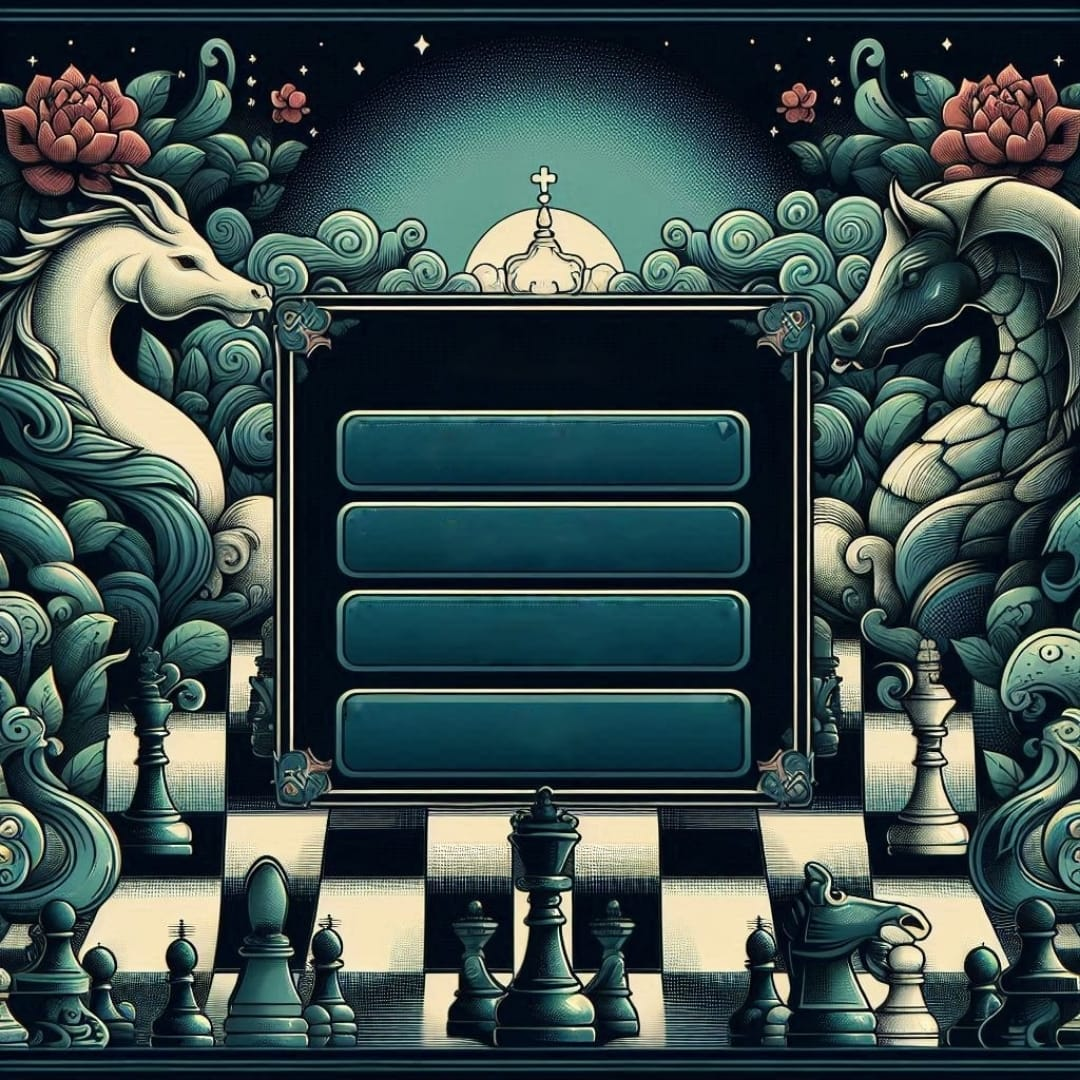
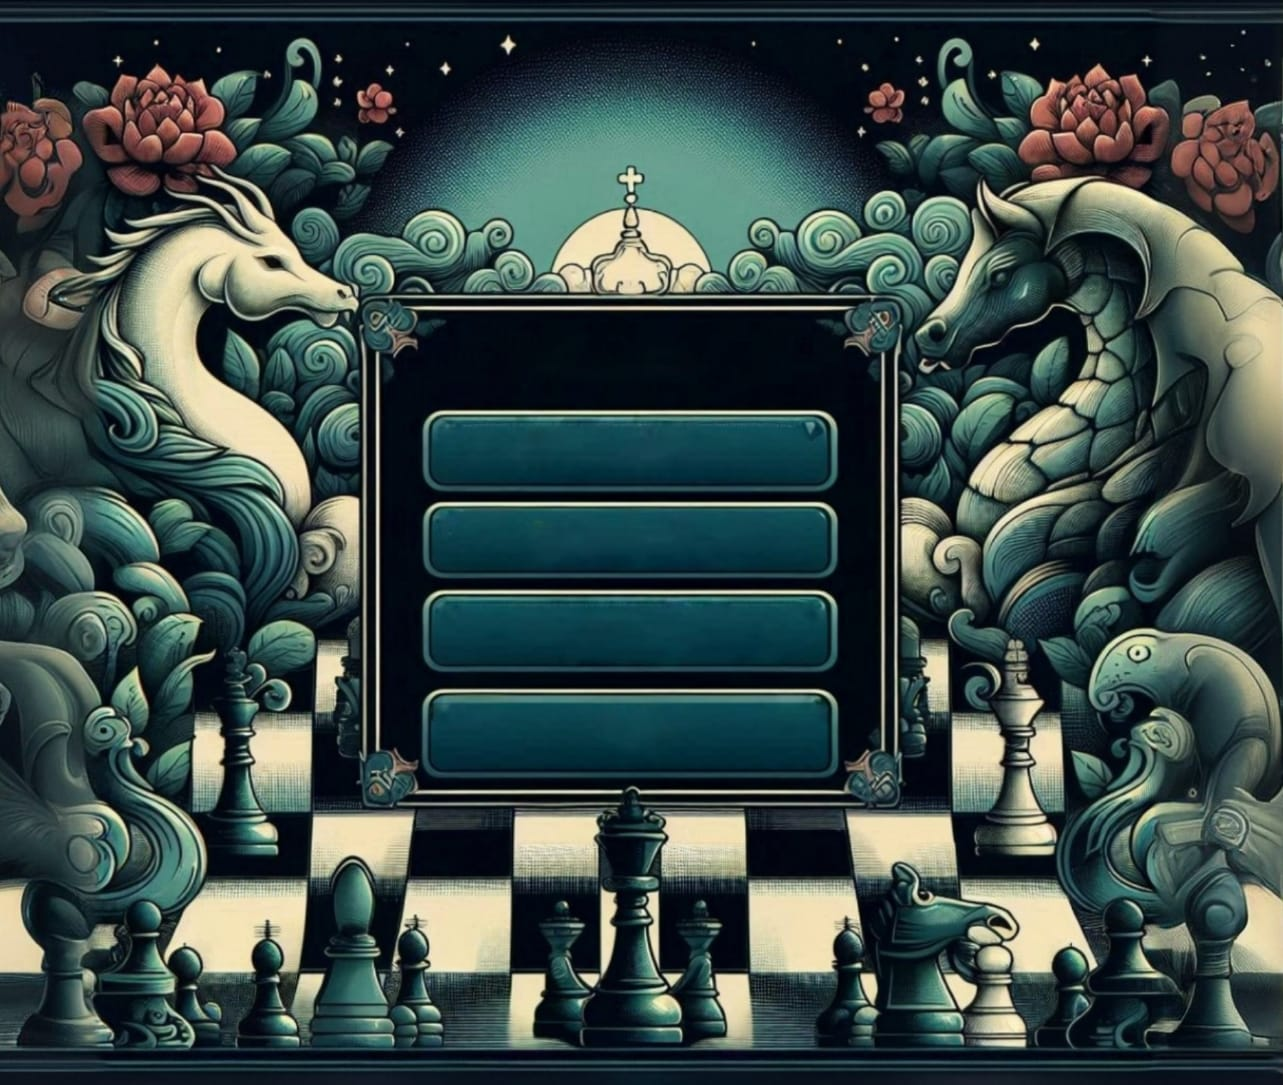
Ajustes en las vistas y controladoes

diff --git a/TP1-PoweChess/src/main/java/org/fiuba/algoritmos3/tp1powechess/Model/General/AdministradorPrimarioJuego.java b/TP1-PoweChess/src/main/java/org/fiuba/algoritmos3/tp1powechess/Model/General/AdministradorPrimarioJuego.java
@@ -3,26 +3,30 @@ package org.fiuba.algoritmos3.tp1powechess.Model.General;
 import javafx.event.EventHandler;
 import javafx.fxml.FXMLLoader;
 import javafx.scene.Scene;
+import javafx.scene.layout.Pane;
 import javafx.scene.layout.VBox;
 import javafx.stage.Stage;
+import javafx.stage.WindowEvent;
 import org.fiuba.algoritmos3.tp1powechess.Controlador.ControladorJuego;
-import org.fiuba.algoritmos3.tp1powechess.Controlador.Eventos.EventoCambioDeTurno;
-import org.fiuba.algoritmos3.tp1powechess.Controlador.Eventos.EventoEstadoPartida;
+import org.fiuba.algoritmos3.tp1powechess.Controlador.ControladorPrimario;
+import org.fiuba.algoritmos3.tp1powechess.Controlador.Eventos.EventoJuego;
 import org.fiuba.algoritmos3.tp1powechess.Model.Juego.Juego;
 import org.fiuba.algoritmos3.tp1powechess.Model.Juego.Jugador;
 import org.fiuba.algoritmos3.tp1powechess.Utiles.Configuracion;
 import org.fiuba.algoritmos3.tp1powechess.Utiles.Constantes;
+import org.fiuba.algoritmos3.tp1powechess.Vista.VistaPrimaria;
 
 import java.io.IOException;
 import java.util.ArrayList;
 import java.util.List;
 
-public class AdministradorPrimarioJuego implements EventHandler<EventoEstadoPartida> {
+public class AdministradorPrimarioJuego implements EventHandler<EventoJuego> {
     Jugador jugadorBlancas;
     Jugador jugadorNegras;
     Juego Ajedrez;
     String NombreJugadorBlancas;
     String NombreJugadorNegras;
+    ControladorPrimario controladorPrimario;
     private Stage stage;
 
     public AdministradorPrimarioJuego(Stage stage) {
@@ -30,13 +34,21 @@ public class AdministradorPrimarioJuego implements EventHandler<EventoEstadoPart
     }
 
     @Override
-    public void handle(EventoEstadoPartida evento) {
-        if (evento.getEventType().equals(EventoEstadoPartida.INICIAR_JUEGO)){
+    public void handle(EventoJuego evento) {
+        if (evento.getEventType().equals(EventoJuego.INICIAR_JUEGO)){
             try {
                 iniciarJuego();
             } catch (IOException e) {
                 throw new RuntimeException(e);
             }
+        } else if (evento.getEventType().equals(EventoJuego.VOLVER_AL_MENU)){
+            try {
+                System.out.println("Volviendo al menu");
+                iniciarVentanaPrincipal();
+            } catch (IOException e) {
+                throw new RuntimeException(e);
+            }
+
         }
     }
 
@@ -57,10 +69,26 @@ public class AdministradorPrimarioJuego implements EventHandler<EventoEstadoPart
         root = loader.load();
         ControladorJuego juegoController = loader.getController();
         juegoController.setJuego(Ajedrez);
-        root.addEventHandler(EventoCambioDeTurno.CAMBIO_DE_TURNO_EVENT, juegoController);
+        root.addEventHandler(EventoJuego.CAMBIO_DE_TURNO_EVENT, juegoController);
+        root.addEventHandler(EventoJuego.VOLVER_AL_MENU, this);
         Scene scene = new Scene(root, Configuracion.TamanioVentana.ANCHO, Configuracion.TamanioVentana.ALTO);
         stage.setScene(scene);
         stage.setOnCloseRequest(juegoController::mostrarConfirmacionCierre);
         stage.show();
+    }
+
+    public void iniciarVentanaPrincipal() throws IOException {
+        FXMLLoader loader = new FXMLLoader(getClass().getResource(Constantes.RUTA_INICIO_FXML));
+        Pane root = loader.load();
+        this.controladorPrimario = loader.getController();
+        root.addEventHandler(EventoJuego.INICIAR_JUEGO, this);
+        Scene scene = new Scene(root, Configuracion.TamanioVentana.ANCHO, Configuracion.TamanioVentana.ALTO);
+        stage.setScene(scene);
+        stage.setOnCloseRequest(AdministradorPrimarioJuego.this::mostrarConfirmacionCierre);
+        stage.show();
+    }
+
+    public void mostrarConfirmacionCierre(WindowEvent windowEvent) {
+        VistaPrimaria.mostrarConfirmacionCierre(windowEvent);
     }
 }

diff --git a/TP1-PoweChess/src/main/java/org/fiuba/algoritmos3/tp1powechess/Controlador/ControladorPrimario.java b/TP1-PoweChess/src/main/java/org/fiuba/algoritmos3/tp1powechess/Controlador/ControladorPrimario.java
@@ -1,35 +1,17 @@
 package org.fiuba.algoritmos3.tp1powechess.Controlador;
 
-import javafx.fxml.FXMLLoader;
-import javafx.scene.Scene;
 import javafx.scene.layout.Pane;
-import javafx.stage.Stage;
-import javafx.stage.WindowEvent;
-import org.fiuba.algoritmos3.tp1powechess.Controlador.Eventos.EventoEstadoPartida;
-import org.fiuba.algoritmos3.tp1powechess.Model.General.AdministradorPrimarioJuego;
-import org.fiuba.algoritmos3.tp1powechess.Utiles.Constantes;
-import org.fiuba.algoritmos3.tp1powechess.Vista.VistaPrimaria;
-import java.io.IOException;
+import org.fiuba.algoritmos3.tp1powechess.Controlador.Eventos.EventoJuego;
 
 public class ControladorPrimario {
     public Pane panePrincipal;
 
-    public void iniciarVentanaPrincipal(Stage stage, AdministradorPrimarioJuego administrador) throws IOException {
-        FXMLLoader secondaryLoader = new FXMLLoader(getClass().getResource(Constantes.RUTA_INICIO_FXML));
-        Pane root = secondaryLoader.load();
-        root.addEventHandler(EventoEstadoPartida.INICIAR_JUEGO, administrador);
-        Scene scene = new Scene(root, 700, 700);
-        stage.setScene(scene);
-        stage.setOnCloseRequest(ControladorPrimario.this::mostrarConfirmacionCierre);
-        stage.show();
-    }
-
     public void entrarAlJuego() {
-        panePrincipal.fireEvent(new EventoEstadoPartida(EventoEstadoPartida.INICIAR_JUEGO));
+        panePrincipal.fireEvent(new EventoJuego(EventoJuego.INICIAR_JUEGO));
     }
 
     public void salirDelJuego(){
-        panePrincipal.fireEvent(new EventoEstadoPartida(EventoEstadoPartida.SALIR_JUEGO));
+        panePrincipal.fireEvent(new EventoJuego(EventoJuego.SALIR_JUEGO));
     }
 
     public void opciones(){
@@ -40,7 +22,4 @@ public class ControladorPrimario {
         //
     }
 
-    public void mostrarConfirmacionCierre(WindowEvent windowEvent) {
-        VistaPrimaria.mostrarConfirmacionCierre(windowEvent);
-    }
 }

diff --git a/TP1-PoweChess/src/main/java/org/fiuba/algoritmos3/tp1powechess/Controlador/ControladorJuego.java b/TP1-PoweChess/src/main/java/org/fiuba/algoritmos3/tp1powechess/Controlador/ControladorJuego.java
@@ -9,8 +9,7 @@ import javafx.scene.layout.GridPane;
 import javafx.scene.layout.VBox;
 import javafx.scene.paint.Color;
 import javafx.scene.shape.Rectangle;
-import org.fiuba.algoritmos3.tp1powechess.Controlador.Eventos.EventoCambioDeTurno;
-import org.fiuba.algoritmos3.tp1powechess.Controlador.Eventos.EventoEstadoPartida;
+import org.fiuba.algoritmos3.tp1powechess.Controlador.Eventos.EventoJuego;
 import org.fiuba.algoritmos3.tp1powechess.Utiles.Configuracion;
 import javafx.stage.WindowEvent;
 import org.fiuba.algoritmos3.tp1powechess.Model.Juego.Juego;
@@ -20,11 +19,11 @@ import java.io.IOException;
 import java.util.Map;
 
 
-public class ControladorJuego implements EventHandler<EventoCambioDeTurno>{
+public class ControladorJuego implements EventHandler<EventoJuego>{
     private Juego juego;
-    private VistaJuego vistaJuego = new VistaJuego();
     private ControladorTablero controladorTablero;
     private ControladorPoderes controladorPoderes;
+    @FXML private VBox contenedor;
     @FXML private VBox poderes;
     @FXML private GridPane tablero;
     @FXML private Rectangle jugador1_color;
@@ -69,7 +68,7 @@ public class ControladorJuego implements EventHandler<EventoCambioDeTurno>{
     );
 
     @Override
-    public void handle(EventoCambioDeTurno cambioDeTurnoEvent) {
+    public void handle(EventoJuego cambioDeTurnoEvent) {
         this.juego.cambiarTurno();
         this.jugadorActual.setText("Jugador actual: " + juego.getNombreJugadorActual());
     }
@@ -79,10 +78,10 @@ public class ControladorJuego implements EventHandler<EventoCambioDeTurno>{
     }
 
     public void guardarPartida(){
-        //juego.guardar();
+        System.out.println("Probando el boton");
     }
 
     public void volverAlMenu(){
-        //
+        tablero.fireEvent(new EventoJuego(EventoJuego.VOLVER_AL_MENU));
     }
 }

diff --git a/TP1-PoweChess/src/main/java/org/fiuba/algoritmos3/tp1powechess/Controlador/ControladorPoderes.java b/TP1-PoweChess/src/main/java/org/fiuba/algoritmos3/tp1powechess/Controlador/ControladorPoderes.java
@@ -2,20 +2,14 @@ package org.fiuba.algoritmos3.tp1powechess.Controlador;
 
 import javafx.fxml.FXML;
 import javafx.scene.control.Button;
-import javafx.scene.control.ButtonBar;
-import javafx.scene.control.ListView;
 import javafx.scene.layout.FlowPane;
 import javafx.scene.layout.VBox;
-import org.fiuba.algoritmos3.tp1powechess.Controlador.Eventos.EventoCambioDeTurno;
-import org.fiuba.algoritmos3.tp1powechess.Controlador.Eventos.EventoEstadoPartida;
+import org.fiuba.algoritmos3.tp1powechess.Controlador.Eventos.EventoJuego;
 import org.fiuba.algoritmos3.tp1powechess.Model.Juego.Jugador;
 import org.fiuba.algoritmos3.tp1powechess.Utiles.Configuracion;
 import org.fiuba.algoritmos3.tp1powechess.Utiles.Constantes;
 import org.fiuba.algoritmos3.tp1powechess.Vista.VistaJuego;
-import org.fiuba.algoritmos3.tp1powechess.Vista.VistaPoderes;
 
-import javax.swing.*;
-import java.awt.event.ActionEvent;
 import java.util.ArrayList;
 
 public class ControladorPoderes {
@@ -67,13 +61,13 @@ public class ControladorPoderes {
         } else if (boton == botonOfrecerTablasBlancas) {
             NombreJugadorTablas = Constantes.NOMBRE_BLANCAS;
         }
-        vboxPoderes.fireEvent(new EventoCambioDeTurno());
+        vboxPoderes.fireEvent(new EventoJuego(EventoJuego.CAMBIO_DE_TURNO_EVENT));
         Boolean continuar = VistaJuego.mostrarConfirmacionTablas(NombreJugadorTablas);
         if(continuar){
-            vboxPoderes.fireEvent(new EventoEstadoPartida(EventoEstadoPartida.TABLAS_ACEPTADAS_EVENT));
+            vboxPoderes.fireEvent(new EventoJuego(EventoJuego.TABLAS_ACEPTADAS_EVENT));
         }
         else {
-            vboxPoderes.fireEvent(new EventoCambioDeTurno());
+            vboxPoderes.fireEvent(new EventoJuego(EventoJuego.CAMBIO_DE_TURNO_EVENT));
         }
     }
 

diff --git a/TP1-PoweChess/src/main/java/org/fiuba/algoritmos3/tp1powechess/Controlador/ControladorTablero.java b/TP1-PoweChess/src/main/java/org/fiuba/algoritmos3/tp1powechess/Controlador/ControladorTablero.java
@@ -9,7 +9,7 @@ import javafx.scene.layout.StackPane;
 import javafx.scene.paint.Color;
 import javafx.scene.shape.Rectangle;
 import javafx.scene.shape.StrokeType;
-import org.fiuba.algoritmos3.tp1powechess.Controlador.Eventos.EventoCambioDeTurno;
+import org.fiuba.algoritmos3.tp1powechess.Controlador.Eventos.EventoJuego;
 import org.fiuba.algoritmos3.tp1powechess.Model.Amenaza.Amenaza;
 import org.fiuba.algoritmos3.tp1powechess.Model.Juego.Juego;
 import org.fiuba.algoritmos3.tp1powechess.Model.Pieza.Pieza;
@@ -111,7 +111,7 @@ public class ControladorTablero {
         boolean movimientoValido = juego.mover(this.posicionOrigenFila, this.posicionOrigenColumna, fila, columna);
         if (movimientoValido) {
             moverPieza(fila, columna);
-            tableroGrid.fireEvent(new EventoCambioDeTurno());
+            tableroGrid.fireEvent(new EventoJuego(EventoJuego.CAMBIO_DE_TURNO_EVENT));
         } else {
             System.out.println("Movimiento invalido, se muestra la vista del error");
         }

diff --git a/TP1-PoweChess/src/main/java/org/fiuba/algoritmos3/tp1powechess/Controlador/Eventos/EventoJuego.java b/TP1-PoweChess/src/main/java/org/fiuba/algoritmos3/tp1powechess/Controlador/Eventos/EventoJuego.java
@@ -1,0 +1,17 @@
+package org.fiuba.algoritmos3.tp1powechess.Controlador.Eventos;
+
+import javafx.event.Event;
+import javafx.event.EventType;
+
+public class EventoJuego extends Event {
+    public static EventType<EventoJuego> CAMBIO_DE_TURNO_EVENT = new EventType<>("Cambio de Turno Event");
+    public static final EventType<EventoJuego> VOLVER_AL_MENU = new EventType<>("Volver al menu.");
+    public static final EventType<EventoJuego> SALIR_JUEGO = new EventType<>("Salir del juego.");
+    public static final EventType<EventoJuego> INICIAR_JUEGO = new EventType<>("Iniciar Juego.");
+    public static final EventType<EventoJuego> RENDIRSE_EVENT = new EventType<>("Rendirse.");
+    public static final EventType<EventoJuego> TABLAS_ACEPTADAS_EVENT = new EventType<>("Tablas Aceptadas.");
+
+    public EventoJuego(EventType<? extends Event> eventType) {
+        super(eventType);
+    }
+}

diff --git a/TP1-PoweChess/src/main/java/org/fiuba/algoritmos3/tp1powechess/Main.java b/TP1-PoweChess/src/main/java/org/fiuba/algoritmos3/tp1powechess/Main.java
@@ -2,7 +2,6 @@ package org.fiuba.algoritmos3.tp1powechess;
 
 import javafx.application.Application;
 import javafx.stage.Stage;
-import org.fiuba.algoritmos3.tp1powechess.Controlador.ControladorPrimario;
 import org.fiuba.algoritmos3.tp1powechess.Model.General.AdministradorPrimarioJuego;
 
 
@@ -10,7 +9,6 @@ public class Main extends Application {
     @Override
     public void start(Stage stage) throws Exception {
         AdministradorPrimarioJuego administrador = new AdministradorPrimarioJuego(stage);
-        ControladorPrimario controladorPrimario = new ControladorPrimario();
-        controladorPrimario.iniciarVentanaPrincipal(stage, administrador);
+        administrador.iniciarVentanaPrincipal();
     }
 }
